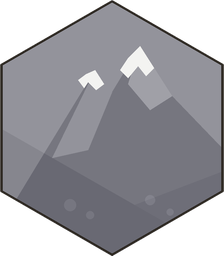
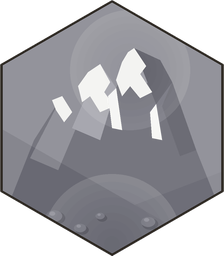
atelier: montagne haute et enneigee, eaux cote/ocean distinctes, guerrier barbare reconstruit (silhouette en V, jupe de peaux, rouge cuit sans accent)

diff --git a/assets-src/tools/generate.py b/assets-src/tools/generate.py
@@ -391,21 +391,41 @@ def tile_colline(d, img, w, h, cx):
 
 def tile_montagne(d, img, w, h, cx):
     d.poly(hex_points(cx, h / 2, w, h), fill=MONTAGNE_1)
-    # massif principal
-    d.poly([(cx - w / 2, h - 30), (40, 160), (95, 70), (112, 92), (140, 46),
-            (172, 96), (cx + w / 2, 150), (cx + w / 2, h - 10), (cx, h)],
-           fill=MONTAGNE_2)
-    # facettes éclairées (haut-gauche)
-    d.poly([(95, 70), (112, 92), (88, 150), (52, 158)], fill=MONTAGNE_1)
-    d.poly([(140, 46), (172, 96), (150, 110), (128, 84)], fill="#9A9AA2")
-    # neige
-    d.poly([(140, 46), (154, 68), (146, 76), (138, 66), (128, 78), (120, 70),
-            (128, 58)], fill=NEIGE)
-    d.poly([(95, 70), (104, 84), (96, 90), (88, 82), (84, 88), (78, 80), (86, 74)],
-           fill=NEIGE)
-    # éboulis
-    for x, y, r in [(70, 205, 6), (90, 215, 4), (150, 200, 5), (170, 212, 3.5)]:
-        d.ellipse((x - r, y - r, x + r, y + r), fill="#7C7C86")
+    # massif principal : pics hauts et anguleux, crêtes vives
+    d.poly([(0, 226), (34, 140), (62, 96), (80, 118), (100, 64), (116, 88),
+            (134, 48), (156, 104), (172, 82), (196, 150), (224, 220),
+            (224, 256), (0, 256)], fill=MONTAGNE_2)
+    # facettes éclairées (faces gauche, lumière haut-gauche)
+    d.poly([(62, 96), (80, 118), (58, 170), (30, 158)], fill=MONTAGNE_1)
+    d.poly([(100, 64), (116, 88), (100, 140), (72, 128)], fill="#A2A2AA")
+    d.poly([(134, 48), (150, 78), (138, 96), (124, 72)], fill="#9A9AA2")
+    # faces ombrées (droite)
+    d.poly([(134, 48), (156, 104), (172, 82), (160, 60)], fill="#5A5A64")
+    d.poly([(172, 82), (196, 150), (180, 156), (162, 106)], fill="#63636D")
+    # neiges déchiquetées, ancrées aux deux principaux pics
+    d.poly([(134, 48), (146, 66), (140, 74), (152, 92), (140, 98), (130, 86),
+            (122, 96), (116, 80), (122, 62), (128, 52)], fill=NEIGE)
+    d.poly([(100, 64), (110, 82), (104, 92), (114, 106), (100, 112), (90, 96),
+            (82, 102), (78, 86), (88, 72)], fill=NEIGE)
+    d.poly([(62, 96), (72, 112), (64, 122), (56, 110), (52, 100)], fill=NEIGE)
+    # névés qui descendent dans les couloirs
+    d.poly([(116, 88), (122, 130), (112, 128), (108, 96)], fill=(242, 242, 240, 200))
+    d.poly([(156, 104), (162, 140), (152, 138), (150, 112)], fill=(242, 242, 240, 170))
+    # éboulis au pied, ombres compositées
+    def eboulis(dd):
+        for x, y, r in [(56, 218, 9), (82, 230, 6.5), (102, 218, 5),
+                        (150, 224, 8), (176, 234, 5.5), (196, 218, 4.5)]:
+            dd.ellipse((x - r, y - r * 0.7, x + r, y + r * 0.7),
+                       fill=(40, 40, 50, 70))
+    soft_clip(img, eboulis)
+    for x, y, r in [(54, 216, 8), (80, 228, 6), (100, 216, 4.5),
+                    (148, 222, 7), (174, 232, 5), (194, 216, 4)]:
+        d.ellipse((x - r, y - r * 0.7, x + r, y + r * 0.7), fill="#7C7C86")
+        d.ellipse((x - r * 0.55, y - r * 0.55, x + r * 0.15, y - r * 0.05),
+                  fill="#94949E")
+    # brume au pied du massif
+    radial(img, 112, 244, 70, (235, 238, 235), 40)
+    radial(img, 130, 70, 60, (255, 255, 255), 26)
     light_from_topleft(img, w, h, cx, 14)
 
 
@@ -424,21 +444,47 @@ def tile_desert(d, img, w, h, cx):
 
 def tile_eau(d, img, w, h, cx):
     d.poly(hex_points(cx, h / 2, w, h), fill=EAU_1)
+    # hauts-fonds : eaux plus claires, bords fondus
     d.ellipse((10, 20, 160, 120), fill="#4A7CAC")
-    for y, x0, x1 in [(80, 40, 110), (130, 90, 180), (180, 40, 130)]:
-        d.arc((x0, y - 9, x1, y + 9), 195, 345, fill=EAU_2, width=3)
-        d.arc((x0 + 18, y + 2, x1 - 10, y + 20), 195, 345, fill="#5E8CB4", width=2.4)
+    d.ellipse((90, 120, 220, 230), fill="#46789F")
+    radial(img, 70, 70, 52, (140, 190, 220), 50)
+    radial(img, 170, 210, 50, (24, 44, 74), 34)
+    # clapot côtier : vagues courtes en paquets, écume aux crêtes
+    for x, y, s in [(34, 82, 1.0), (96, 64, 1.2), (150, 96, 0.9),
+                    (60, 140, 1.1), (130, 156, 1.0), (184, 170, 0.9),
+                    (44, 200, 0.9), (112, 216, 1.1), (170, 224, 0.8)]:
+        d.arc((x - 26 * s, y - 8 * s, x + 26 * s, y + 8 * s), 200, 340,
+              fill=EAU_2, width=2.8)
+        d.arc((x - 14 * s, y + 4 * s, x + 30 * s, y + 18 * s), 200, 340,
+              fill="#5E8CB4", width=2)
+        d.ellipse((x - 3 * s, y - 10 * s, x + 3 * s, y - 5 * s),
+                  fill="#C8DCE8")
+    # reflets du soleil : tirets clairs
+    for gx, gy in [(80, 90), (60, 120), (140, 130), (100, 180), (160, 200)]:
+        d.line([(gx - 7, gy), (gx + 7, gy)], fill=(230, 240, 245, 150), width=2)
     light_from_topleft(img, w, h, cx, 26)
 
 
 def tile_ocean(d, img, w, h, cx):
     """Phase 6c : océan profond — teinte plus sombre que la côte (EAU_1),
-    vagues rares et courtes (grand large : houle, pas de clapot côtier)."""
+    houle longue et rare (grand large, pas de clapot côtier)."""
     d.poly(hex_points(cx, h / 2, w, h), fill=OCEAN_1)
+    # grand large : lentilles de profondeur, fondus discrets
     d.ellipse((10, 20, 160, 120), fill="#33567F")
-    for y, x0, x1 in [(95, 55, 125), (165, 30, 105)]:
-        d.arc((x0, y - 8, x1, y + 8), 195, 345, fill=OCEAN_2, width=2.6)
-        d.arc((x0 + 20, y + 4, x1 - 12, y + 18), 195, 345, fill="#4A6F97", width=2)
+    d.ellipse((80, 130, 220, 240), fill="#26466A")
+    radial(img, 66, 66, 50, (90, 130, 170), 36)
+    radial(img, 176, 214, 52, (16, 30, 52), 30)
+    # houle longue et rare : ondulations larges, très plates
+    for x, y, s in [(64, 96, 1.3), (150, 150, 1.5), (72, 190, 1.2),
+                    (164, 222, 1.1)]:
+        d.arc((x - 36 * s, y - 6 * s, x + 36 * s, y + 6 * s), 197, 343,
+              fill=OCEAN_2, width=2.4)
+        d.arc((x - 20 * s, y + 6 * s, x + 40 * s, y + 16 * s), 197, 343,
+              fill="#4A6F97", width=1.8)
+    # rares scintillements
+    for gx, gy in [(96, 110), (140, 170), (70, 226)]:
+        d.line([(gx - 5, gy), (gx + 5, gy)], fill=(200, 220, 235, 120),
+               width=1.8)
     light_from_topleft(img, w, h, cx, 20)
 
 
@@ -966,38 +1012,105 @@ ROUGE_BARBARE = "#B32222"     # tente/étoffes rouges des barbares
 ROUGE_BARBARE_CLAIR = "#C43A32"  # face éclairée (même hue, +lumière)
 
 
-def unite_barbare_guerrier(db, da, w, h):
-    """256×320 : guerrier barbare — tunique de peaux, casque à cornes, massue
-    cloutée ; bande d'épaules + ceinture ROUGES cuites (aucun accent)."""
-    cx, ground = 128, 300
-    shadow(db, cx, ground + 4, 52)
-    # jambes trapues
-    db.rrect((cx - 26, ground - 58, cx - 6, ground), 8, fill="#4E4438")
-    db.rrect((cx + 6, ground - 58, cx + 26, ground), 8, fill="#4E4438")
-    db.rrect((cx - 30, ground - 8, cx - 2, ground + 2), 4, fill="#3E342A")
-    db.rrect((cx + 2, ground - 8, cx + 30, ground + 2), 4, fill="#3E342A")
-    # tunique de peaux TEINTE ROUGE — la majeure du sprite (décision Erik 12/09)
-    db.poly([(cx - 36, ground - 132), (cx + 36, ground - 132), (cx + 42, ground - 54),
-             (cx - 42, ground - 54)], fill=ROUGE_BARBARE)
-    db.poly([(cx - 36, ground - 132), (cx - 8, ground - 132), (cx - 20, ground - 54),
-             (cx - 42, ground - 54)], fill=ROUGE_BARBARE_CLAIR)
-    # ceinture rouge (cuite, plus d'accent)
-    db.rrect((cx - 38, ground - 82, cx + 38, ground - 72), 3, fill=ROUGE_BARBARE)
-    # tête + casque à cornes
-    db.ellipse((cx - 18, ground - 172, cx + 18, ground - 136), fill="#B99B7E")
-    db.pieslice((cx - 20, ground - 178, cx + 20, ground - 142), 180, 360, fill="#6E655C")
-    db.line([(cx - 22, ground - 164), (cx - 38, ground - 178)], fill="#C8B08A", width=7)
-    db.line([(cx + 22, ground - 164), (cx + 38, ground - 178)], fill="#C8B08A", width=7)
-    # bras droit levé (massue cloutée)
-    db.line([(cx + 26, ground - 118), (cx + 52, ground - 158)], fill="#7A5C3A", width=13)
-    db.line([(cx + 48, ground - 158), (cx + 56, ground - 196)], fill=BOIS, width=12)
-    db.ellipse((cx + 42, ground - 224, cx + 74, ground - 190), fill="#6E655C")
-    for x, y in [(50, 210), (60, 196), (46, 194)]:
-        db.ellipse((cx + x - 3, ground - y - 3, cx + x + 3, ground - y + 3), fill="#4E4438")
-    # bras gauche + bande d'épaules rouge (cuite, plus d'accent)
-    db.line([(cx - 26, ground - 118), (cx - 50, ground - 96)], fill="#7A5C3A", width=13)
-    db.poly([(cx - 34, ground - 132), (cx + 34, ground - 132), (cx + 30, ground - 118),
-             (cx - 30, ground - 118)], fill=ROUGE_BARBARE)
+def unite_barbare_guerrier(db, da, w, h, img=None):
+    """256×320 : guerrier barbare — silhouette en V (épaules larges, taille
+    serrée), jupe de peaux rouge déchiquetée, jambes nues bottées, casque à
+    cornes, massue cloutée. Rouge cuit sur toute la majeure (aucun accent)."""
+    cx, g = 128, 300
+    shadow(db, cx, g + 4, 54)
+
+    # jambes nues écartées (tibias peau) + bottes fourrées hautes
+    for sx in (-1, 1):
+        hx = cx + sx * 15
+        db.taper([(hx, g - 56), (hx + sx * 2, g - 30), (hx + sx * 1, g - 12)],
+                 13, 9, "#B99B7E")
+        db.rrect((hx - 12, g - 24, hx + 12, g - 14), 4, fill="#C8B08A")
+        db.rrect((hx - 11, g - 12, hx + 11, g + 2), 4, fill="#3E342A")
+
+    # jupe de peaux rouge, courte, ourlet déchiqueté
+    db.smooth_poly([(cx - 17, g - 88), (cx + 17, g - 88),
+                    (cx + 30, g - 58), (cx + 26, g - 48),
+                    (cx - 26, g - 48), (cx - 30, g - 58)],
+                   fill=ROUGE_BARBARE)
+    for fx in (-24, -8, 8, 24):
+        db.poly([(cx + fx - 5, g - 49), (cx + fx + 5, g - 49),
+                 (cx + fx, g - 38)], fill="#9E3A3A")
+    # torse en V : épaules larges -> taille serrée (peaux rouges croisées)
+    db.smooth_poly([(cx - 28, g - 132), (cx + 28, g - 132),
+                    (cx + 17, g - 92), (cx - 17, g - 92)],
+                   fill=ROUGE_BARBARE)
+    db.smooth_poly([(cx - 28, g - 132), (cx - 6, g - 132),
+                    (cx - 9, g - 92), (cx - 17, g - 92)],
+                   fill=ROUGE_BARBARE_CLAIR)
+    # croisures de peaux (sangles sombres en diagonale)
+    db.smooth_line([(cx - 20, g - 128), (cx + 8, g - 96)], "#7E2E2E", 4)
+    db.smooth_line([(cx + 20, g - 128), (cx - 4, g - 96)], "#7E2E2E", 4)
+    # ceinture de guerre + boucle
+    db.rrect((cx - 19, g - 92, cx + 19, g - 82), 3, fill="#6E2A2A")
+    for fx in (-12, 0, 12):
+        db.ellipse((cx + fx - 1.6, g - 89, cx + fx + 1.6, g - 85),
+                   fill="#4A1C1C")
+    db.rrect((cx - 6, g - 94, cx + 6, g - 80), 3, fill="#C8B08A",
+             outline="#8A7248", width=1.5)
+
+    # tête dure (sourcils froncés, bouche serrée) + casque à cornes
+    db.ellipse((cx - 16, g - 168, cx + 16, g - 136), fill="#B99B7E")
+    for ex in (-6, 6):
+        db.ellipse((cx + ex - 2.2, g - 150, cx + ex + 2.2, g - 146), fill=INK)
+        db.line([(cx + ex - 3.4, g - 153), (cx + ex + 3.4, g - 151.5)],
+                fill="#6E563E", width=2.6)
+    db.line([(cx, g - 150), (cx - 1, g - 143)], fill="#9A7E62", width=2.6)
+    db.smooth_line([(cx - 5, g - 137), (cx, g - 138), (cx + 5, g - 137)],
+                   "#5E4632", 2.4)
+    db.pieslice((cx - 18, g - 174, cx + 18, g - 141), 180, 360, fill="#6E655C")
+    db.rrect((cx - 18, g - 159, cx + 18, g - 153), 2, fill="#5A524A")
+    # cornes courbes épaisses (fuselées vers la pointe claire)
+    for sx in (-1, 1):
+        db.taper([(cx + sx * 12, g - 157), (cx + sx * 24, g - 168),
+                  (cx + sx * 33, g - 188)], 9, 3, "#C8B08A")
+        db.ellipse((cx + sx * 31 - 3, g - 191, cx + sx * 31 + 3, g - 185),
+                   fill="#E4D4B4")
+
+    # épaules fourrées (pauldrons clairs) — ancre la largeur du V
+    for sx in (-1, 1):
+        px = cx + sx * 28
+        db.ellipse((px - 11, g - 140, px + 11, g - 122), fill="#C8B08A")
+        db.ellipse((px - 8, g - 138, px + 2, g - 128), fill="#E4D4B4")
+
+    # bras droit levé, biceps marqué (deux segments), brassard de cuir
+    db.taper([(cx + 26, g - 126), (cx + 38, g - 118), (cx + 42, g - 106)],
+             11, 13, "#B99B7E")
+    db.taper([(cx + 42, g - 106), (cx + 46, g - 128), (cx + 50, g - 148)],
+             12, 9, "#B99B7E")
+    db.rrect((cx + 36, g - 136, cx + 52, g - 126), 3, fill="#6E2A2A")
+    db.ellipse((cx + 42, g - 160, cx + 58, g - 144), fill="#B99B7E")
+    # massue : manche fuselé, tête nodale grise, clous à reflet
+    db.taper([(cx + 50, g - 146), (cx + 55, g - 168), (cx + 58, g - 186)],
+             9, 6, BOIS)
+    db.smooth_poly([(cx + 42, g - 208), (cx + 56, g - 222), (cx + 74, g - 214),
+                    (cx + 78, g - 196), (cx + 64, g - 182), (cx + 46, g - 192)],
+                   fill="#6E655C")
+    db.smooth_poly([(cx + 42, g - 208), (cx + 56, g - 222), (cx + 66, g - 216),
+                    (cx + 54, g - 200), (cx + 46, g - 192)], fill="#7E766C")
+    for tx, ty in [(cx + 48, g - 216), (cx + 70, g - 220), (cx + 78, g - 202),
+                   (cx + 66, g - 180), (cx + 44, g - 198)]:
+        db.ellipse((tx - 3, ty - 3, tx + 3, ty + 3), fill="#4E4438")
+        db.ellipse((tx - 1.5, ty - 3, tx + 0.5, ty - 1), fill="#8A8278")
+
+    # bras gauche le long du corps, poing serré
+    db.taper([(cx - 26, g - 126), (cx - 36, g - 112), (cx - 38, g - 96)],
+             11, 9, "#B99B7E")
+    db.taper([(cx - 38, g - 96), (cx - 36, g - 84)], 10, 8, "#B99B7E")
+    db.ellipse((cx - 43, g - 86, cx - 29, g - 74), fill="#B99B7E")
+    db.rrect((cx - 42, g - 118, cx - 30, g - 108), 3, fill="#6E2A2A")
+
+    # modelés (voiles doux bornés aux pixels peints de la base)
+    if img is not None:
+        radial(img, cx - 8, g - 160, 15, (255, 255, 255), 55)   # casque
+        radial(img, cx - 12, g - 112, 18, (255, 255, 255), 34)  # torse clair
+        radial(img, cx + 14, g - 66, 20, (30, 10, 10), 40)      # jupe ombre
+        radial(img, cx + 60, g - 204, 15, (255, 255, 255), 45)  # massue
+        unit_shading(img, cx, g - 174, g - 40, strength=14)
 
 
 def unite_barbare_archer(db, da, w, h):
